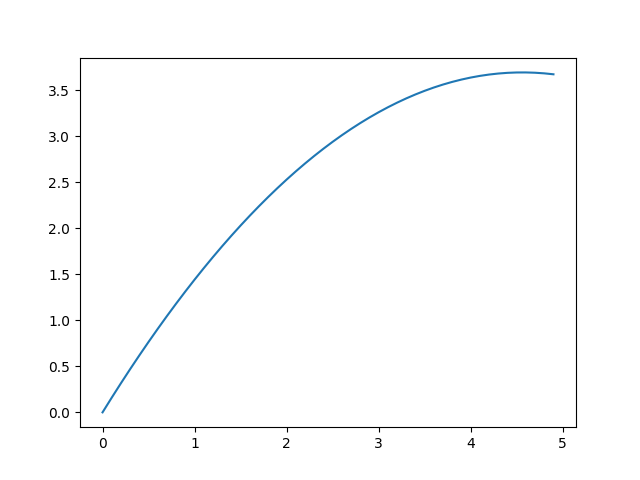
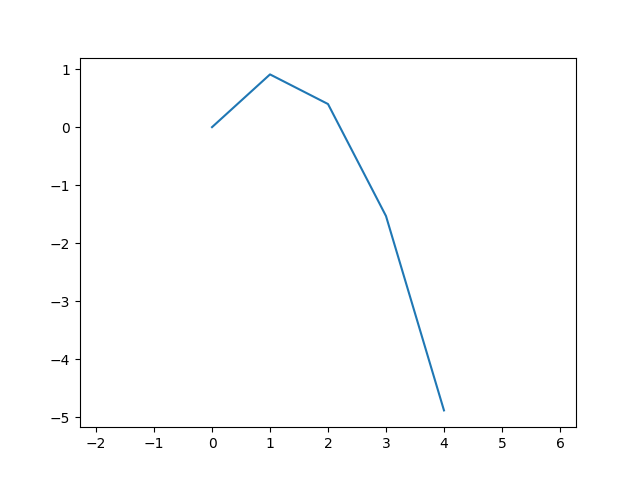
ff

diff --git a/kod_5.py b/kod_5.py
@@ -5,10 +5,10 @@ import numpy as np
 def circle_plotter():
     
     alpha = 45
-    v_0 = 10
+    v_0 = 5
 
     
-    x = np.arange(0, 5, 0.1)
+    x = np.arange(0, 5, 1)
     y = x * np.tan(alpha) - (9.8 * x ** 2) / (2 * v_0 ** 2 * np.cos(alpha) ** 2)
 
     plt.plot(x, y)
